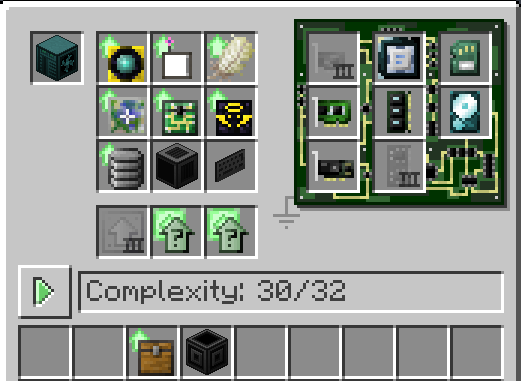
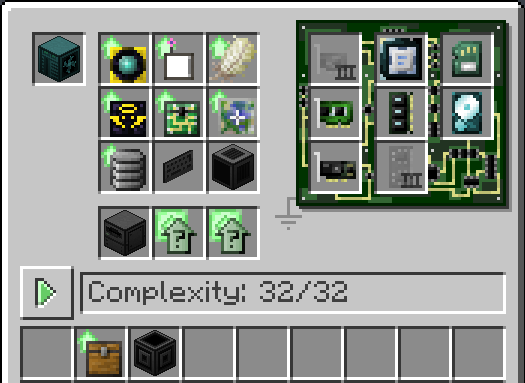
updated docs

Changed region(s): [[0.0, 0.0, 1.0, 1.0], [0.5528, 0.0577, 0.6756, 0.1155]]

diff --git a/README.md b/README.md
@@ -40,7 +40,8 @@ wget -f https://raw.githubusercontent.com/MarkinoTeck/GTNH-OC-Installer/main/ins
 Inside robot:
 
 - 1x "Screen (Tier 1)"
-- 1x Keyboard
+- 1x "Keyboard"
+- 1x "Disk Drive"
 - 1x "ME Upgrade" (tier 3)
 - 1x "Database Upgrade (Tier 1)"
 - 1x "Angel Upgrade"
@@ -49,8 +50,8 @@ Inside robot:
 - 1x "Memory (Tier 3.5)"
 - 1x "Central Processing Unit (CPU) (Tier 3)"
 - 1x "Internet Card"
-- 1x "EEPROM (Lua BIOS)" <b>with loaded openos softwere</b>
-- 1x "Hard Disk Drive (Tier 3) (4MB)" <b>with loaded openos softwere</b>
+- 1x "EEPROM (Lua BIOS)"
+- 1x "Hard Disk Drive (Tier 3) (4MB)"
 - 1x "Computer Case (Tier 3)"
 - 1x "Navigation Upgrade"
 - 1x "Inventory Controller Upgrade"
